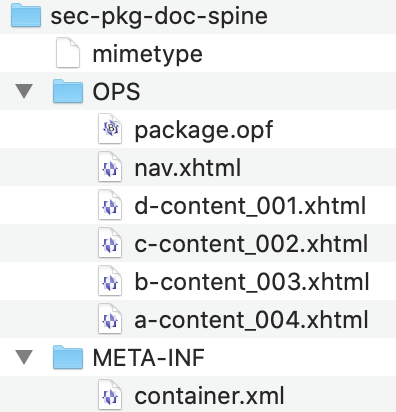
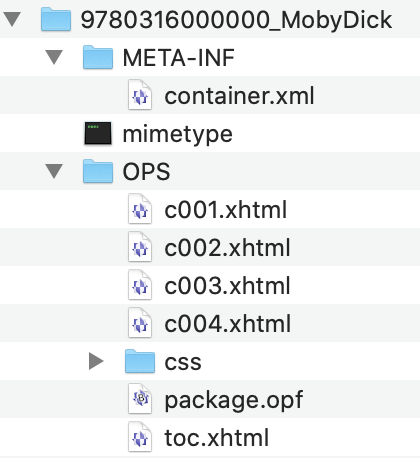
update example screenshot

diff --git a/epub33/explainers/EPUB33-explainer.md b/epub33/explainers/EPUB33-explainer.md
@@ -1,6 +1,6 @@
 # EPUB 3.3 Explainer
 
-**Written**: 2021-02-22, **Updated**: 2021-10-22 
+**Written**: 2021-02-22, **Updated**: 2021-10-26 
 
 ## Authors:
 
@@ -102,7 +102,7 @@ The package file is the heart of any EPUB, and includes publication metadata, a 
   <item id="c002" href="c002.xhtml" media-type="application/xhtml+xml" />
   <item id="c003" href="c003.xhtml" media-type="application/xhtml+xml" />
   <item id="c004" href="c004.xhtml" media-type="application/xhtml+xml" />
-  <item id="nav" properties="nav" href="nav.xhtml" media-type="application/xhtml+xml" />
+  <item id="nav" properties="nav" href="toc.xhtml" media-type="application/xhtml+xml" />
 </manifest>
 <spine>
   <itemref idref="c001" />
